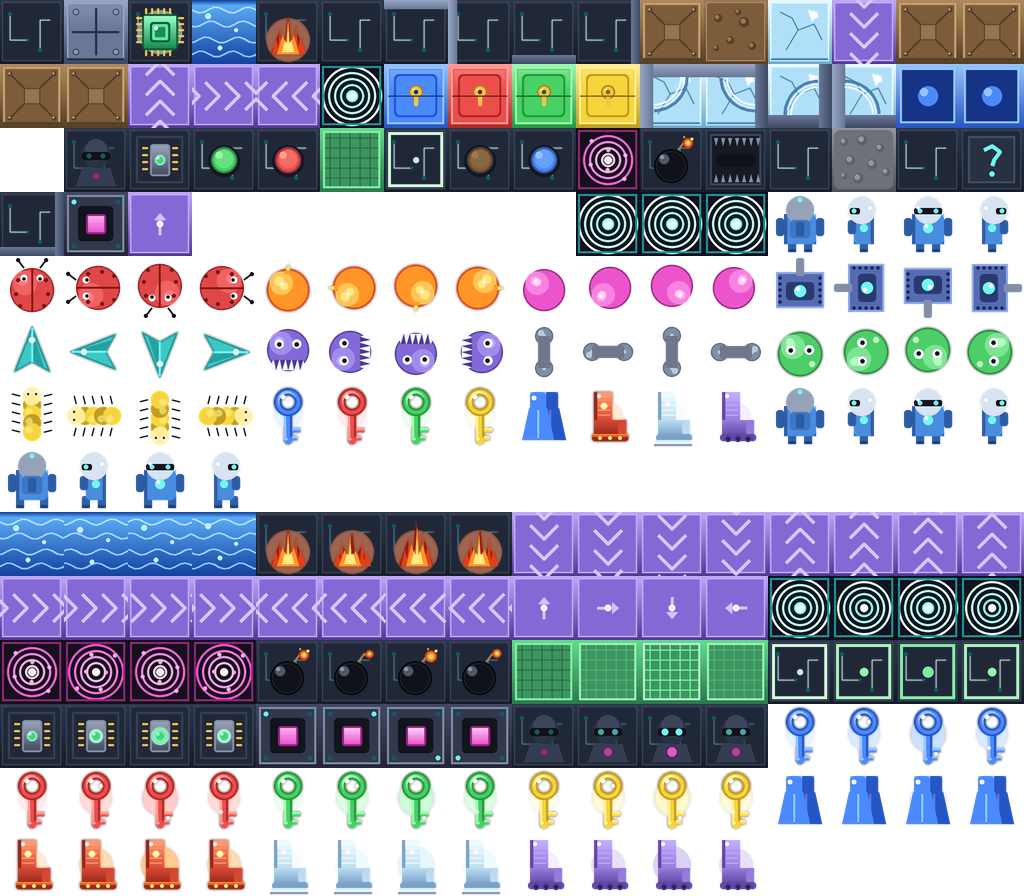
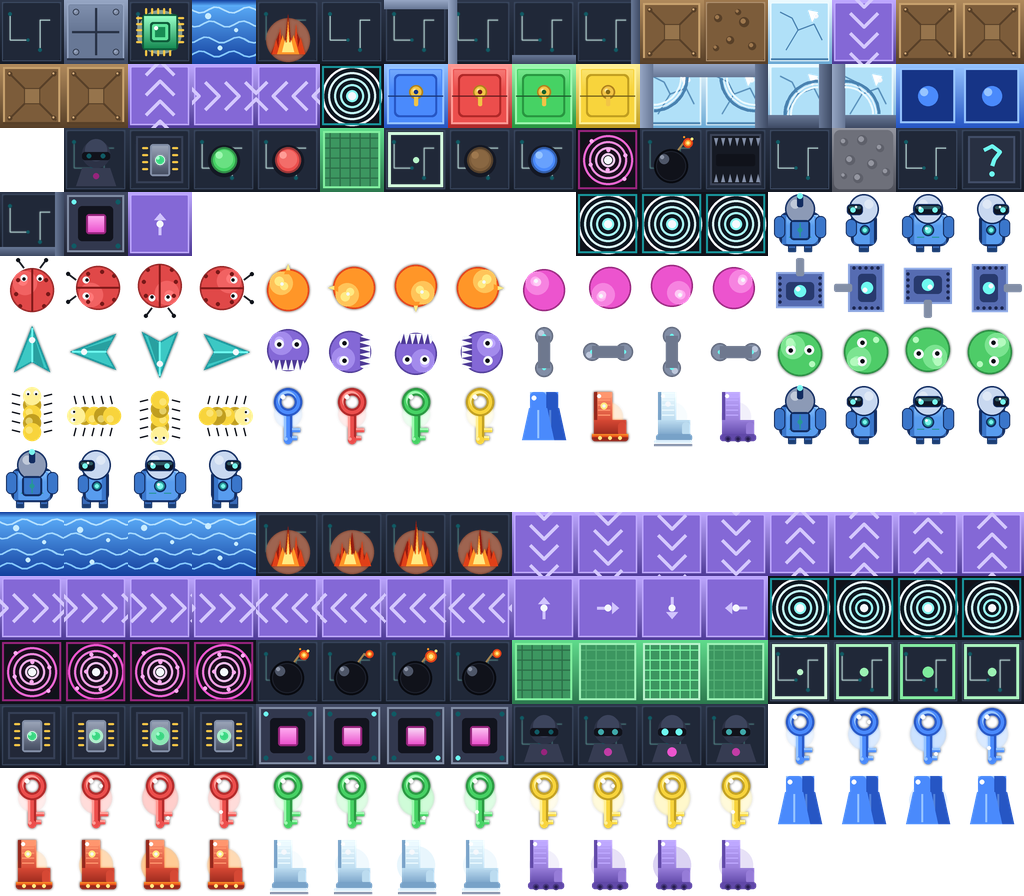
feat(circuitrunner): Spieler-Sprite detaillierter -- Neon-Circuit-Android
Der Spieler war recht flach gezeichnet. Neu: gepanzerter Rumpf mit Outline-
Silhouette + Schulterpolstern und Glanzfeld, Helm mit leuchtendem Visier-Band
(zwei cyan Augen frontal, gerichtetes Visier im Profil), gluehender Brustkern,
Neon-Schaltbahnen, Antenne + Rueckenpanel von hinten, Beine mit Knie-LED und
Schritt-Frames. make_tiles.py: _torso/_legs/_helm + player_front/back/side
ueberarbeitet. Tileset neu generiert; alle 4 Richtungen + Geh-Frames per
Screenshot geprueft.

Changed region(s): [[0.75, 0.4375, 1.0, 0.5], [0.75, 0.2188, 1.0, 0.2812], [0.0, 0.5, 0.25, 0.5625]]

diff --git a/circuitrunner/make_tiles.py b/circuitrunner/make_tiles.py
@@ -724,58 +724,85 @@ def b_paramecium():
     return p.finish()
 
 
-# ---- Spieler (4 echte Richtungen + Geh-Frames)
-PB_T = (130, 188, 255, 255); PB = (74, 140, 222, 255); PB_D = (44, 92, 164, 255)
-PHE = (216, 226, 240, 255); PHE_D = (150, 162, 184, 255); PLEG = (48, 96, 168, 255); PFOOT = (30, 66, 120, 255)
+# ---- Spieler (4 echte Richtungen + Geh-Frames) -- Neon-Circuit-Android
+PB_T = (160, 208, 255, 255); PB = (88, 156, 238, 255); PB_M = (58, 118, 202, 255)
+PB_D = (40, 86, 158, 255); PB_OUT = (18, 44, 96, 255)
+PHE_T = (238, 246, 252, 255); PHE = (200, 216, 240, 255); PHE_D = (140, 154, 182, 255)
+PVIS = (14, 22, 38, 255); PLEG = (56, 106, 184, 255); PFOOT = (28, 62, 116, 255)
+PNE = (120, 244, 236, 255); PNE_D = (38, 150, 150, 255)
 
 
 def _legs(p, step):
-    if step == 0:
-        p.rrect(20, 48, 28, 60, 2, PLEG); p.rrect(36, 48, 44, 60, 2, PLEG)
-        p.rrect(20, 57, 28, 60, 1, PFOOT); p.rrect(36, 57, 44, 60, 1, PFOOT)
-    else:
-        p.rrect(16, 48, 24, 60, 2, PLEG); p.rrect(40, 48, 48, 60, 2, PLEG)
-        p.rrect(16, 57, 24, 60, 1, PFOOT); p.rrect(40, 57, 48, 60, 1, PFOOT)
+    pairs = ((20, 36) if step == 0 else (16, 40))
+    for lx in pairs:
+        p.rrect(lx, 47, lx + 8, 60, 3, PB_OUT)            # Outline
+        p.gv(lx + 1, 47, lx + 7, 58, PB, PB_D)
+        p.rrect(lx + 1, 47, lx + 7, 58, 2, PLEG)
+        p.rrect(lx, 56, lx + 8, 60, 1, PFOOT)             # Stiefel
+        p.disc(lx + 4, 51, 1.1, PNE_D)                    # Knie-LED
 
 
 def _torso(p):
-    p.gv(16, 22, 48, 52, PB_T, PB_D)
-    p.rrect(16, 22, 48, 52, 6, PB)
-    p.rect(16, 22, 19, 52, PB_D)
-    p.rrect(8, 26, 16, 44, 3, PB_D); p.rrect(48, 26, 56, 44, 3, PB_D)   # Arme
+    p.rrect(11, 20, 53, 54, 9, PB_OUT)                    # Outline-Silhouette
+    p.gv(14, 23, 50, 52, PB_T, PB_D)                      # Koerper-Verlauf
+    p.rrect(14, 23, 50, 52, 7, PB)
+    p.gv(18, 25, 46, 34, _mix(PB, PB_T, 0.6), PB)         # oberes Glanzfeld
+    p.rect(14, 23, 18, 52, PB_M)                          # Schattenkante links
+    # Schulterpolster
+    p.rrect(6, 24, 17, 46, 5, PB_OUT); p.rrect(7, 25, 16, 45, 4, PB_M)
+    p.rrect(47, 24, 58, 46, 5, PB_OUT); p.rrect(48, 25, 57, 45, 4, PB_M)
+    # Neon-Schaltbahnen
+    p.line([(32, 24), (32, 32)], PNE_D, 1.4)
+    p.line([(21, 45), (28, 45)], PNE_D, 1.2); p.line([(36, 45), (43, 45)], PNE_D, 1.2)
+
+
+def _helm(p, dome):
+    p.disc(32, 17, 15, PB_OUT)                            # Helm-Outline
+    p.disc(32, 17, 13.5, dome)
+    p.disc(27, 12, 4.5, _mix(dome, WHITE, 0.5))           # Glanz
 
 
 def player_front(step):
     p = P(); _legs(p, step); _torso(p)
-    p.disc(32, 18, 14, PHE)
-    p.rrect(18, 14, 46, 24, 4, PHE); p.rrect(18, 16, 46, 22, 2, BLACK)   # Visier
-    p.disc(24, 19, 2.4, NEON); p.disc(40, 19, 2.4, NEON)
-    p.disc(22, 16, 1.6, SHINE)
-    p.disc(32, 36, 5, NEON); p.disc(30, 34, 2, WHITE)                    # Brustkern
+    _helm(p, PHE)
+    p.rrect(18, 12, 46, 23, 5, PB_OUT)                    # Visier-Band
+    p.rrect(19, 13, 45, 22, 4, PVIS)
+    p.rrect(20, 14, 44, 17, 2, _mix(PVIS, PNE, 0.30))     # Visier-Schimmer
+    p.disc(25, 18, 2.7, PNE); p.disc(39, 18, 2.7, PNE)    # Augen
+    p.disc(24, 16, 1.3, WHITE)
+    p.disc(32, 38, 6, PB_OUT)                             # Brustkern
+    p.disc(32, 38, 4.6, PNE_D); p.disc(32, 38, 3, PNE); p.disc(30.5, 36.5, 1.4, WHITE)
     return p.finish()
 
 
 def player_back(step):
     p = P(); _legs(p, step); _torso(p)
-    p.disc(32, 18, 14, PHE_D)
-    p.rrect(28, 8, 36, 24, 3, (150, 162, 184, 255)); p.disc(32, 8, 2.4, NEON)   # Antenne
-    p.rrect(22, 28, 42, 46, 4, (62, 116, 196, 255)); p.rrect(28, 30, 36, 44, 2, PB_D)  # Rueckenpanel
+    _helm(p, PHE_D)
+    p.rrect(29, 3, 35, 15, 2, PB_OUT); p.disc(32, 4, 2.8, PNE)            # Antenne
+    p.rrect(22, 28, 42, 48, 4, PB_OUT); p.gv(24, 30, 40, 46, PB_M, PB_D)  # Rueckenpanel
+    p.rrect(24, 30, 40, 46, 3, PB_M)
+    p.line([(32, 31), (32, 45)], PNE_D, 1.4); p.disc(32, 38, 2.4, PNE_D)
     return p.finish()
 
 
 def player_side(step, left):
     p = P()
     if step == 0:
-        p.rrect(28, 48, 36, 60, 2, PLEG); p.rrect(28, 57, 36, 60, 1, PFOOT)
+        p.rrect(27, 47, 37, 60, 3, PB_OUT); p.gv(28, 47, 36, 58, PB, PB_D)
+        p.rrect(28, 47, 36, 58, 2, PLEG); p.rrect(27, 56, 37, 60, 1, PFOOT)
     else:
-        p.rrect(22, 48, 30, 60, 2, PLEG); p.rrect(38, 48, 46, 60, 2, PLEG)
-        p.rrect(22, 57, 30, 60, 1, PFOOT); p.rrect(38, 57, 46, 60, 1, PFOOT)
-    p.gv(22, 22, 42, 52, PB_T, PB_D); p.rrect(22, 22, 42, 52, 5, PB); p.rect(22, 22, 25, 52, PB_D)
-    p.rrect(40, 28, 48, 42, 3, PB_D)                  # vorderer Arm
-    p.disc(34, 18, 14, PHE)
-    p.rrect(22, 14, 46, 24, 4, PHE); p.rrect(36, 16, 46, 22, 2, BLACK)  # Visier rechts
-    p.disc(42, 19, 2.4, NEON); p.disc(26, 16, 1.6, SHINE)
-    p.disc(32, 36, 4, NEON)
+        for lx in (20, 37):
+            p.rrect(lx, 47, lx + 9, 60, 3, PB_OUT)
+            p.rrect(lx + 1, 47, lx + 8, 58, 2, PLEG); p.rrect(lx, 56, lx + 9, 60, 1, PFOOT)
+    p.rrect(19, 20, 45, 54, 8, PB_OUT)                   # Rumpf-Profil
+    p.gv(22, 23, 42, 52, PB_T, PB_D); p.rrect(22, 23, 42, 52, 6, PB)
+    p.rect(22, 23, 26, 52, PB_M)
+    p.rrect(39, 27, 50, 45, 5, PB_OUT); p.rrect(40, 28, 49, 44, 4, PB_M)  # vorderer Arm
+    _helm(p, PHE)
+    p.rrect(33, 12, 49, 23, 4, PB_OUT); p.rrect(34, 13, 48, 22, 3, PVIS)  # Visier rechts
+    p.rrect(35, 14, 47, 17, 2, _mix(PVIS, PNE, 0.30))
+    p.disc(43, 18, 2.7, PNE); p.disc(40, 15, 1.2, WHITE)
+    p.disc(31, 38, 5, PB_OUT); p.disc(31, 38, 3.4, PNE_D); p.disc(31, 38, 2, PNE)
     im = p.finish()
     if left:
         im = im.transpose(Image.FLIP_LEFT_RIGHT)
